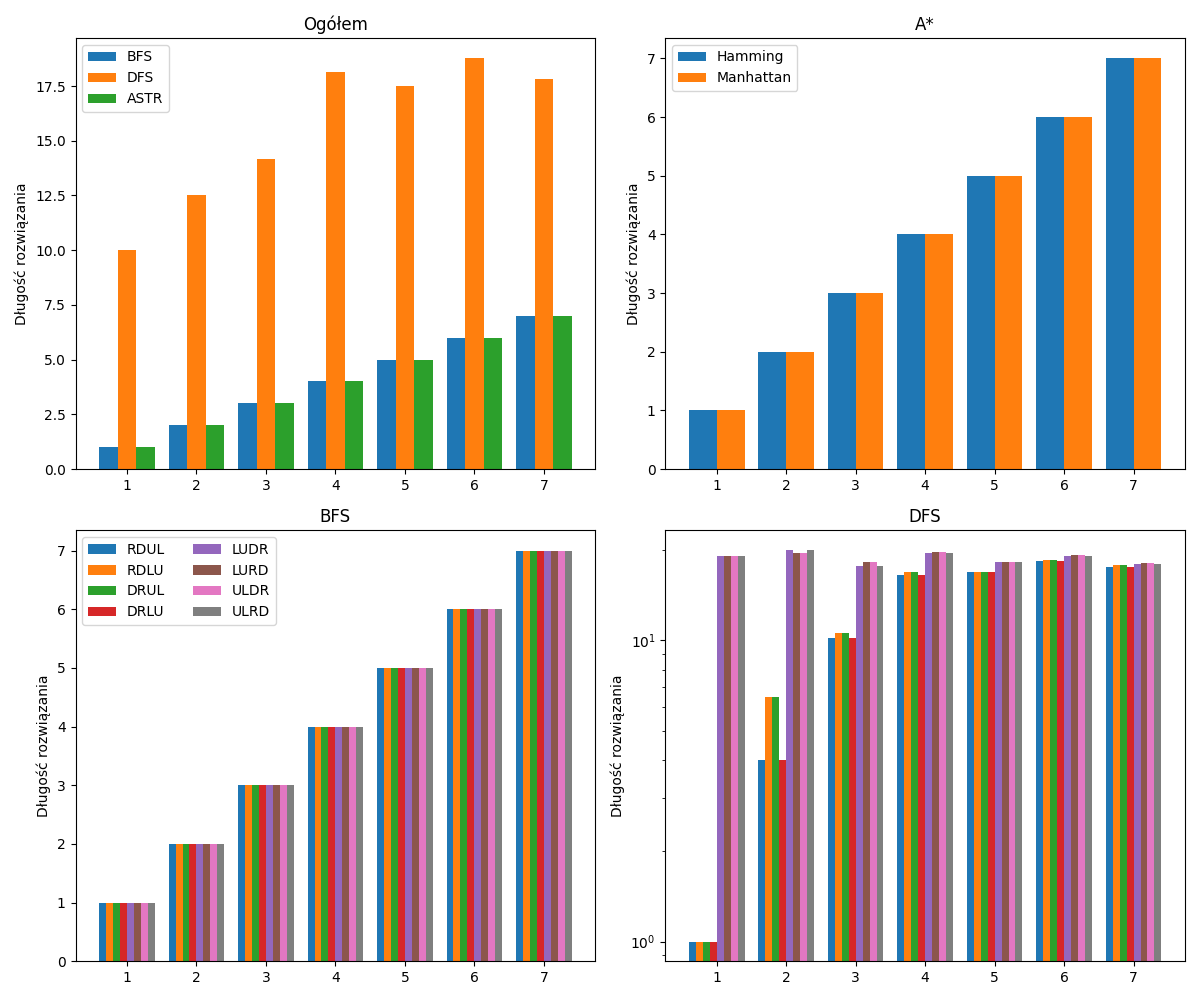
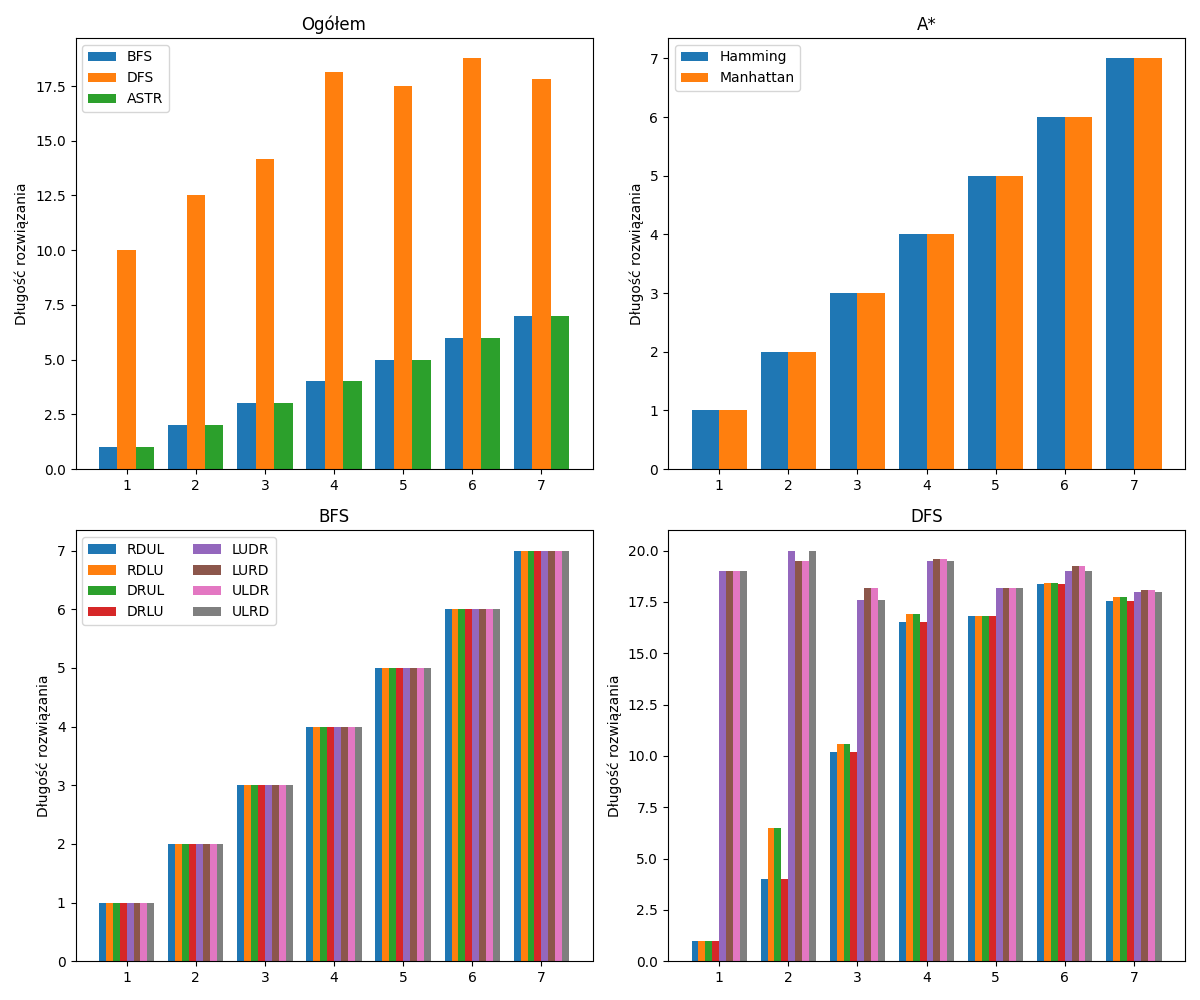
no log for length

diff --git a/Fifteen Puzzle/solve.py b/Fifteen Puzzle/solve.py
@@ -194,7 +194,7 @@ axes = plt.subplots(nrows=2, ncols=2, figsize=(12, 10))[1]
 bar_plot(axes[0][0], general_avg, ['BFS', 'DFS', 'ASTR'], LENGTH, "Ogółem", LABELS[0], total_width=.8)
 bar_plot(axes[0][1], astr_t, metric, LENGTH, "A*", LABELS[0], total_width=.8)
 bar_plot(axes[1][0], bfs_t, keys, LENGTH, "BFS", LABELS[0], total_width=.8)
-bar_plot(axes[1][1], dfs_t, keys, LENGTH, "DFS", LABELS[0], total_width=.8, log_scale=True, legend=False)
+bar_plot(axes[1][1], dfs_t, keys, LENGTH, "DFS", LABELS[0], total_width=.8, legend=False)
 
 plt.tight_layout()
 plt.savefig('charts/Length.png')
